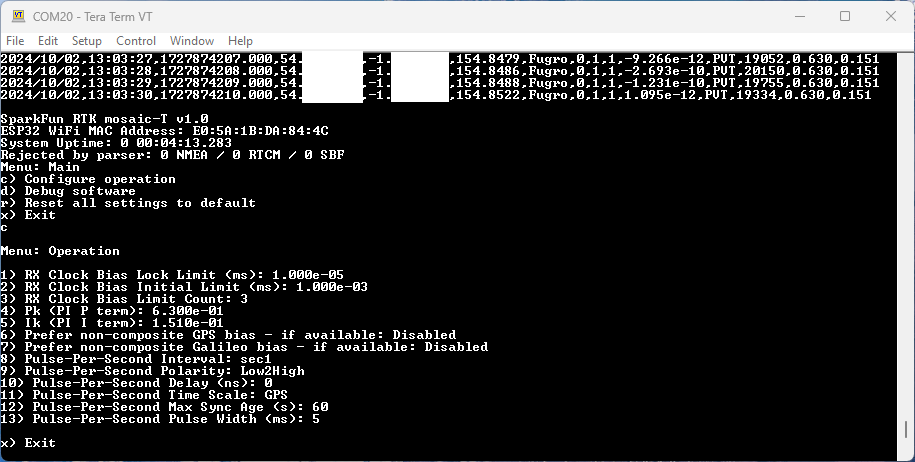
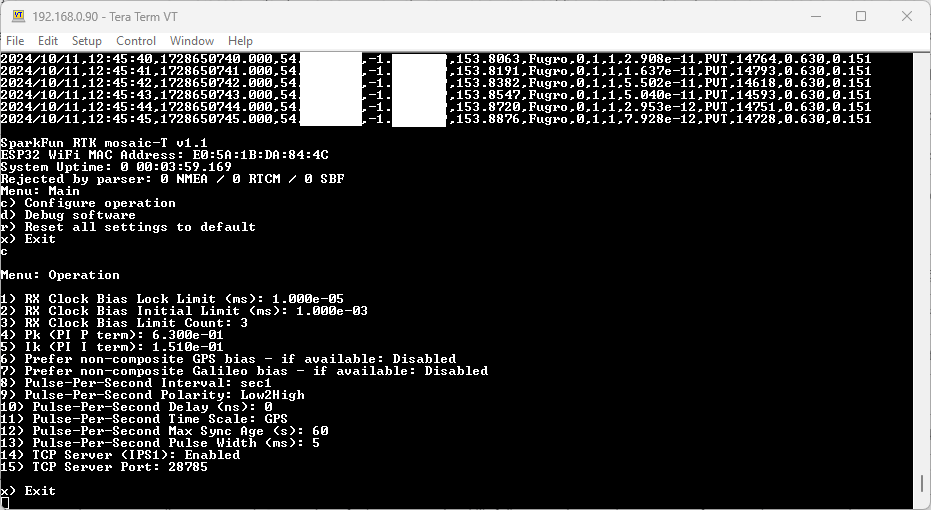
Docs updates

diff --git a/docs/software_overview.md b/docs/software_overview.md
@@ -385,10 +385,47 @@ Select option **c** ("c" followed by "Enter") to configure the firmware:
 	* This defines how long PPS pulses will be produced when the GNSS signal is lost or jammed: 0 to 3600 seconds.
 * **13) Pulse-Per-Second Pulse Width**
 	* This defines the width of the PPS signal. The units are milliseconds: 0.000001 to 1000.000000.
+* **14) TCP Server (IPS1)**
+	* When enabled, the ESP32 serial console is diverted from the CH340 (USB) interface to the mosaic-T COM3 and from there to the IPS1 TCP server.
+	* When enabled, the configuration menu and debug messages can be accessed over TCP / Telnet on the chosen port. The CH340 (USB) interface is no longer active.
+	* TCP is supported over both Ethernet and the Ethernet-over-USB (CONFIG MOSAIC) connection. Only one TCP2Way connection is supported.
+* **15) TCP Server Port**
+	* The port for the TCP connection. Default is 28785.
 
 To reset all settings to their default values, select "r", "Enter", "y", "Enter"
 
 The settings are saved to non-volatile memory (NVM, LittleFS) on exiting the menu. Ensure you fully exit the menu ("x", "Enter", "x", "Enter") to save any modified settings.
 
 The TCXO frequency control word is saved to NVM once per hour, to allow a quicker startup at the next power-on.
+
+Select option **d** ("d" followed by "Enter") to configure the software debug options:
+
+<figure markdown>
+[![ESP32 firmware debug menu](./assets/img/hookup_guide/Menu-Debug.png){ width="600" }](./assets/img/hookup_guide/Menu-Debug.png "Click to enlarge")
+<figcaption markdown>The ESP32 firmware debug menu.</figcaption>
+</figure>
+
+The debug options are what we use at SparkFun to check that the firmware is running correctly. You should not need change any of the options, except perhaps option 8 ** Print conditions**. This option controls the periodic CSV messages seen in the console when the menu is closed. The format can be changed to human-readable text, or the messages can be disabled if desired.
+
+The format of the CSV data is:
+
+**YYYY/MM/DD,HH:MM:SS,Epoch,Lat,Lon,Alt,TimeSys,Error,Fine,PPS,Bias,Source,TCXO,Pk,Ik**
+
+* **YYYY/MM/DD** is the date from the ReceiverTime SBF message
+* **HH:MM:SS** is the time from the ReceiverTime SBF message
+* **Epoch** is the date and time in Unix epoch format: seconds.milliseconds from midnight UTC January 1st 1970. This is useful when plotting the data against time.
+* **Lat** is the Latitude in degrees from the PVTGeodetic SBF message (7 decimal places)
+* **Lon** is the Longitude in degrees from the PVTGeodetic SBF message (7 decimal places)
+* **Alt** is the Altitude in metres from the PVTGeodetic SBF message (0.1mm resolution)
+* **TimeSys** is the named TimeSystem from the PVTGeodetic SBF message
+* **Error** is the Error byte from the PVTGeodetic SBF message. 0 indicates no error
+* **Fine** is the FINETIME bit from the SyncLevel byte from the ReceiverTime SBF message
+* **PPS** indicates if the Pulse-Per-Second output is enabled. PPS is enabled when the RxClkBias reaches the required accuracy
+* **Bias** is the receiver clock bias in seconds
+* **Source** is the source of the receiver clock bias reported in **Bias**
+	* By default, this is the composite RxClkBias reported in the PVTGeodetic SBF message. "PVT" indicates the source is RxClkBias from PVTGeodetic
+	* If AtomiChron is enabled and if **Prefer non-composite GPS bias** or **Prefer non-composite Galileo bias** has been selected, this will change to "GPS" or "Galileo" indicating that the individual non-composite bias from the FugroTimeOffset SBF message is being used
+* **TCXO** is the 26-bit signed frequency control word written to the SiT5358 TCXO
+* **Pk** is the PI control loop Proportional term - set in the configuration menu
+* **Ik** is the PI control loop Integral term - set in the configuration menu
 
